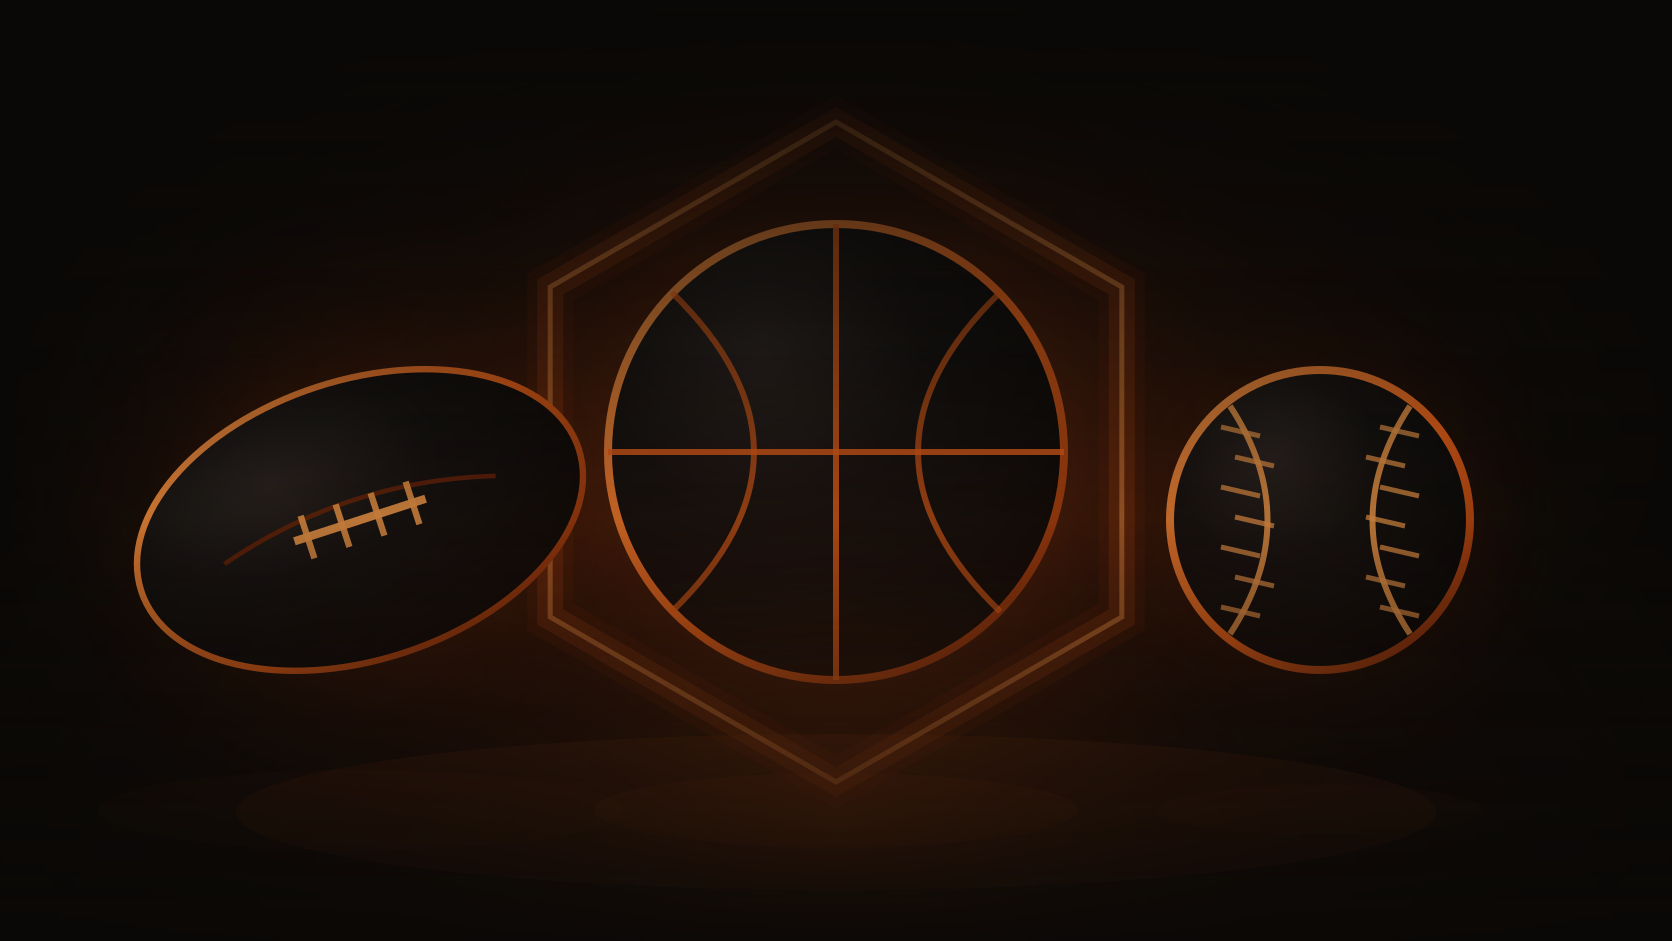
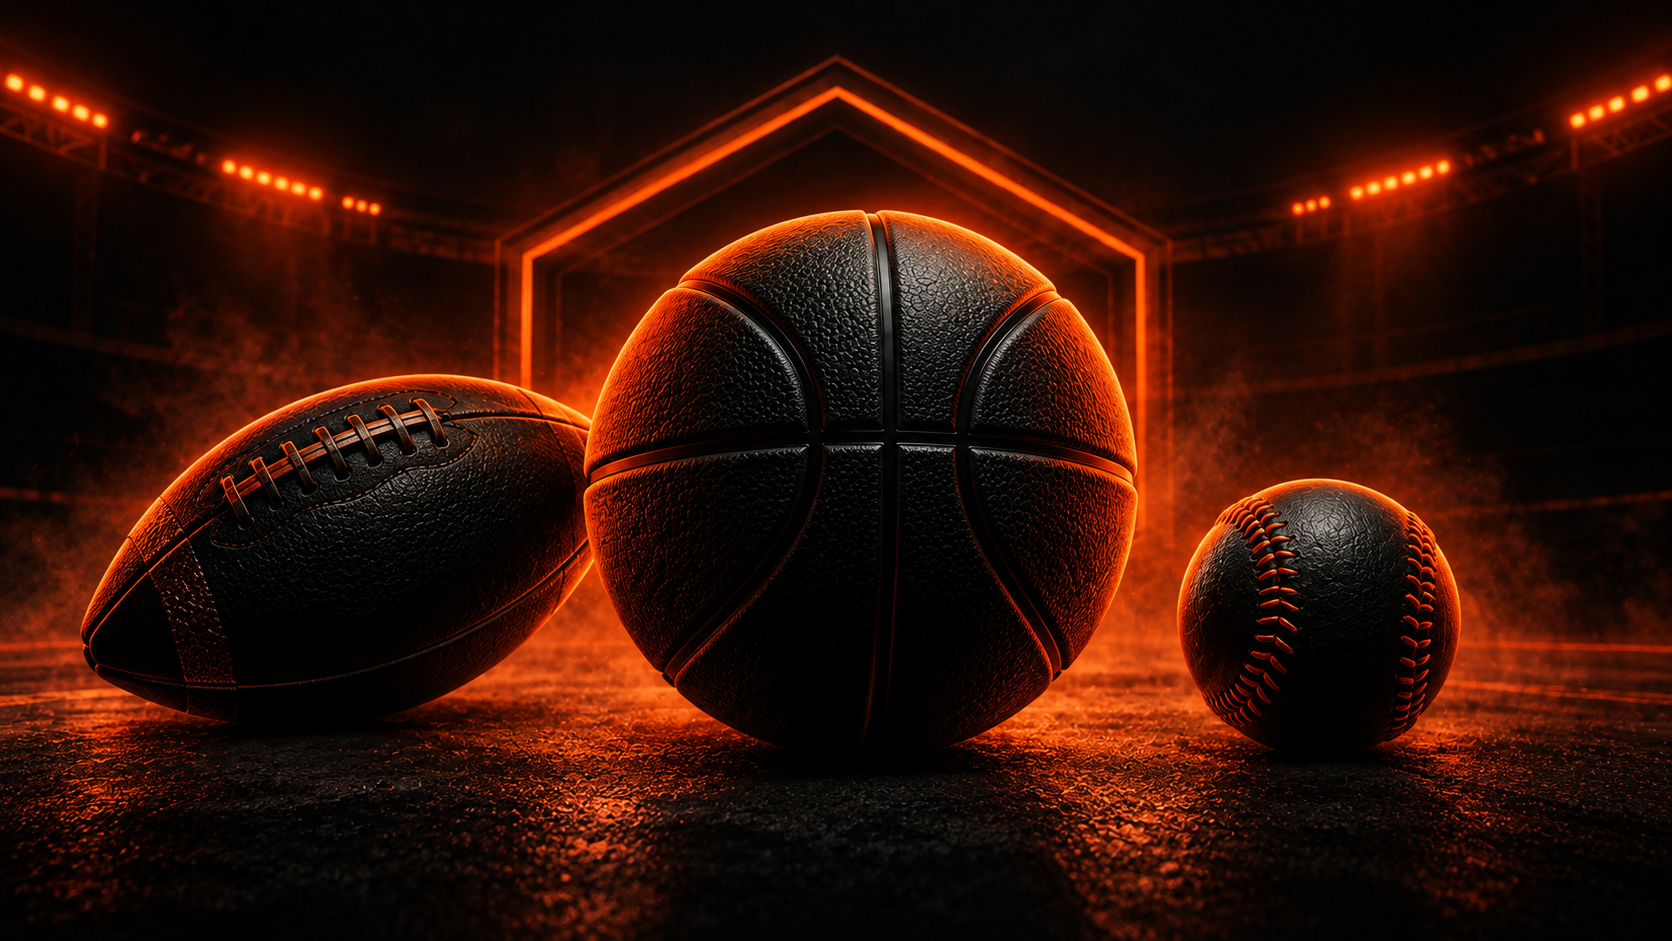
Refresh collection artwork and migrate team catalogs to square

diff --git a/test/team-picker.test.js b/test/team-picker.test.js
@@ -27,6 +27,41 @@ const UNITED = {
 
 test.afterEach(() => teamPicker.clearCache());
 
+test('all team choosers produce square artwork', () => {
+  for (const key of ['epl', 'nfl', 'nba', 'mlb']) {
+    assert.equal(teamPicker.specFor(key, key === 'epl' ? UNITED : COWBOYS).posterShape, 'square');
+  }
+});
+
+test('existing team catalogs are migrated on disk and stored events use the new shape', () => {
+  const fs = require('node:fs');
+  const os = require('node:os');
+  const path = require('node:path');
+  const { execFileSync } = require('node:child_process');
+  const dir = fs.mkdtempSync(path.join(os.tmpdir(), 'sss-team-shape-'));
+  const file = path.join(dir, 'custom-promotions.json');
+  try {
+    const team = { ...teamPicker.specFor('nfl', COWBOYS), posterShape: 'landscape', enabled: false };
+    fs.writeFileSync(file, JSON.stringify({ version: 1, promotions: [team,
+      { id: 'other-league', source: 'espn', league: 'nfl', posterShape: 'landscape' }] }));
+    execFileSync(process.execPath, ['-e', "require('./lib/custom-promotions').load()"], {
+      cwd: path.resolve(__dirname, '..'), env: { ...process.env, CUSTOM_PROMOTIONS_FILE: file },
+    });
+    const saved = JSON.parse(fs.readFileSync(file, 'utf8')).promotions;
+    assert.equal(saved[0].posterShape, 'square');
+    assert.equal(saved[0].enabled, false);
+    assert.deepEqual(saved[0].teamFilter, team.teamFilter);
+    assert.equal(saved[1].posterShape, 'landscape');
+    assert.equal(customPromotions.normaliseSpec(team).posterShape, 'square');
+    const promotion = promotions.createGenericPromotion(customPromotions.normaliseSpec(team));
+    promotions.byPrefix[promotion.idPrefix] = promotion;
+    try {
+      assert.equal(transform.toCatalogMeta({ id: promotion.idPrefix + ':old', promotion: promotion.idPrefix,
+        posterShape: 'landscape', name: 'Old fixture' }).posterShape, 'square');
+    } finally { delete promotions.byPrefix[promotion.idPrefix]; }
+  } finally { fs.rmSync(dir, { recursive: true, force: true }); }
+});
+
 // A football club gets a team-scoped feed, which is the whole reason the
 // shipped Man United promotion spans the league, both cups and Europe.
 // Substituting a league feed filtered to one club would silently drop every

diff --git a/lib/custom-promotions.js b/lib/custom-promotions.js
@@ -24,12 +24,26 @@ function emptyState() {
   return { version: VERSION, promotions: [], updatedAt: null };
 }
 
+function isTeamCatalog(spec) {
+  return !!(spec && (spec.teamId || (spec.teamFilter &&
+    (spec.teamFilter.id || (Array.isArray(spec.teamFilter.names) && spec.teamFilter.names.length)))));
+}
+
 function load() {
   try {
     if (!fs.existsSync(FILE)) return emptyState();
     const raw = fs.readFileSync(FILE, 'utf8');
     const data = JSON.parse(raw);
     if (!data || !Array.isArray(data.promotions)) return emptyState();
+    // Upgrade existing team catalogs without requiring users to recreate them.
+    let changed = false;
+    for (const spec of data.promotions) {
+      if (isTeamCatalog(spec) && spec.posterShape !== 'square') {
+        spec.posterShape = 'square';
+        changed = true;
+      }
+    }
+    if (changed) save(data);
     return data;
   } catch (err) {
     console.error('[custom-promotions] load failed: ' + err.message);
@@ -246,7 +260,7 @@ function normaliseSpec(spec) {
     poster: String(spec.poster || '').trim(),
     fanart: String(spec.fanart || '').trim(),
     logo:   String(spec.logo   || '').trim(),
-    posterShape: String(spec.posterShape || 'landscape').trim(),
+    posterShape: isTeamCatalog(spec) ? 'square' : String(spec.posterShape || 'landscape').trim(),
     searchTitleTemplates: Array.isArray(spec.searchTitleTemplates)
       ? spec.searchTitleTemplates.map((t) => String(t || '').trim()).filter(Boolean)
       : [],

diff --git a/lib/team-picker.js b/lib/team-picker.js
@@ -171,7 +171,7 @@ function specFor(key, team) {
     id,
     idPrefix: id,
     name: entry.describe(team),
-    posterShape: 'landscape',
+    posterShape: 'square',
     poster: team.crest || '',
     fanart: team.crest || '',
     promotionAliases: Array.from(new Set(names)).slice(0, 8),
